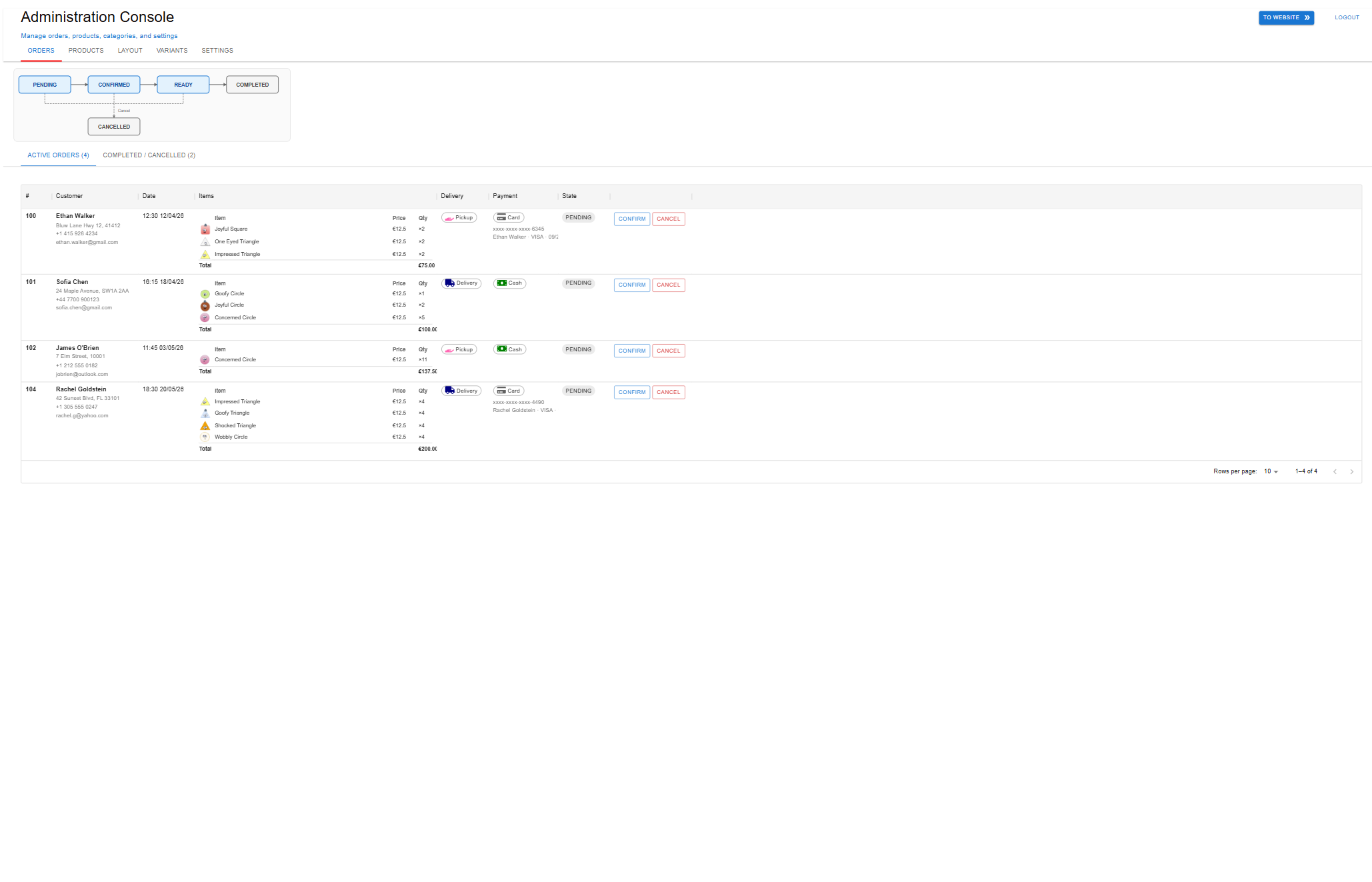
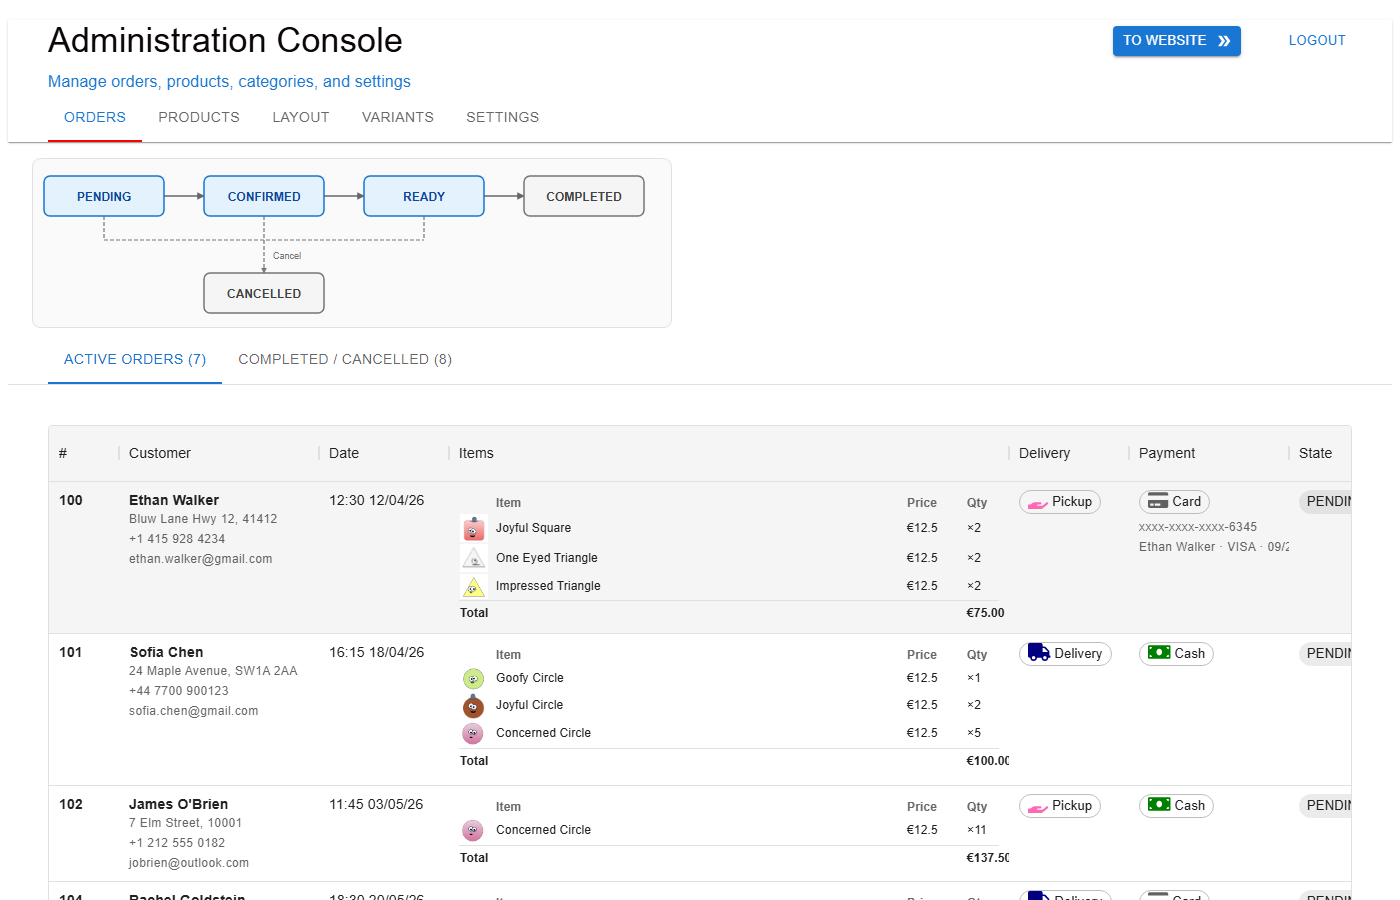
Recapture shapeshop screenshots at a consistent fixed viewport
The last refresh broke the page's 1.556:1 ratio again - shots ranged
anywhere from 123x94 up to 1280x531, several far more extreme than the
2.1:1 that triggered the original recrop fix (5b8460a). Recaptured all
15 (10 desktop + 5 mobile) via shape-shop's new driver script, which
fixes the viewport itself (1400x900 desktop, 378x786 mobile) rather
than relying on a manual crop/resize step.

Also tag every screenshot <img> with a stable data-shot-id
(shop-*/admin-*, -desktop/-mobile suffix) alongside its existing
descriptive alt text, so each image is identifiable by more than
filename alone without touching accessibility.

Claude-Session: https://claude.ai/code/session_01BsmVxucTDKDjDLbVxWjWfJ

diff --git a/src/pages/shapeshop/ManualPanel.jsx b/src/pages/shapeshop/ManualPanel.jsx
@@ -33,7 +33,7 @@ export default function ManualPanel() {
             Customers land on the home page and enter the shop to browse products by category, depending on
             the layout chosen in the admin panel.
           </p>
-          <img className="manual-screenshot" src={shopBrowsingScreenshot} alt="Shop showing products in a category" />
+          <img className="manual-screenshot" data-shot-id="shop-products-desktop" src={shopBrowsingScreenshot} alt="Shop showing products in a category" />
 
           <h3>Checkout</h3>
           <p>
@@ -41,14 +41,14 @@ export default function ManualPanel() {
             method, payment details, and an order summary to review before confirming. After confirming, they
             see an order confirmation screen.
           </p>
-          <img className="manual-screenshot" src={shopCheckoutScreenshot} alt="Checkout delivery or pickup step" />
+          <img className="manual-screenshot" data-shot-id="shop-checkout-desktop" src={shopCheckoutScreenshot} alt="Checkout delivery or pickup step" />
 
           <h3>Order status</h3>
           <p>
             After an order is placed, its progress (pending → confirmed → ready → completed, or cancelled) is
             tracked in the admin Orders tab.
           </p>
-          <img className="manual-screenshot" src={shopOrderStatusScreenshot} alt="Order confirmation screen" />
+          <img className="manual-screenshot" data-shot-id="shop-order-status-desktop" src={shopOrderStatusScreenshot} alt="Order confirmation screen" />
         </section>
 
         <section id="admin-panel">
@@ -64,14 +64,14 @@ export default function ManualPanel() {
             <em> Completed / Cancelled</em>. Clicking an order opens its detail screen, showing what was
             ordered and letting the owner move it through its states.
           </p>
-          <img className="manual-screenshot" src={adminOrdersScreenshot} alt="Orders tab showing active orders" />
+          <img className="manual-screenshot" data-shot-id="admin-orders-desktop" src={adminOrdersScreenshot} alt="Orders tab showing active orders" />
 
           <h3>Products</h3>
           <p>
             Add, edit, and remove the products customers see in the shop, including product images and
             pricing.
           </p>
-          <img className="manual-screenshot" src={adminProductsScreenshot} alt="Products tab showing the product grid" />
+          <img className="manual-screenshot" data-shot-id="admin-products-desktop" src={adminProductsScreenshot} alt="Products tab showing the product grid" />
 
           <h3>Categories</h3>
           <p>
@@ -80,26 +80,26 @@ export default function ManualPanel() {
             one, drag category tabs to reorder them, and switch to tree view for a sidebar layout of
             categories and their products.
           </p>
-          <img className="manual-screenshot" src={adminCategoriesScreenshot} alt="Create Category dialog" />
+          <img className="manual-screenshot" data-shot-id="admin-categories-desktop" src={adminCategoriesScreenshot} alt="Create Category dialog" />
 
           <h3>Layout</h3>
           <p>
             Controls how the shop's home page and product listings are arranged (e.g. single page, category
             menu, or a custom layout), and lets the owner set the header and welcome images.
           </p>
-          <img className="manual-screenshot" src={adminLayoutScreenshot} alt="Shop Layout options" />
+          <img className="manual-screenshot" data-shot-id="admin-layout-desktop" src={adminLayoutScreenshot} alt="Shop Layout options" />
 
           <h3>Variants</h3>
           <p>
             Manage product variants — such as different sizes or colours of the same product.
           </p>
-          <img className="manual-screenshot" src={adminVariantsScreenshot} alt="Variant Types panel" />
+          <img className="manual-screenshot" data-shot-id="admin-variants-desktop" src={adminVariantsScreenshot} alt="Variant Types panel" />
 
           <h3>Settings</h3>
           <p>
             General store settings for the site.
           </p>
-          <img className="manual-screenshot" src={adminSettingsScreenshot} alt="Settings panel showing welcome and header image options" />
+          <img className="manual-screenshot" data-shot-id="admin-settings-desktop" src={adminSettingsScreenshot} alt="Settings panel showing welcome and header image options" />
         </section>
       </div>
   );

diff --git a/src/pages/shapeshop/Screenshots.jsx b/src/pages/shapeshop/Screenshots.jsx
@@ -13,61 +13,79 @@ import img3Mobile from "./img/shop-admin-products-mobile.png";
 import img4Mobile from "./img/shop-admin-edit-product-mobile.png";
 import img5Mobile from "./img/shop-admin-orders-mobile.png";
 
-const screenshots = [img1, img2, img3, img4, img5];
-const mobileScreenshots = [img1Mobile, img2Mobile, img3Mobile, img4Mobile, img5Mobile];
+// `id` is a stable identifier for each screenshot (shop-*/admin-* naming,
+// desktop/mobile suffix - see take-screenshots-for-frontangle.md), rendered
+// as data-shot-id. `alt` stays a proper accessibility description.
+const screenshots = [
+  { src: img1, id: "shop-products-desktop", alt: "Shop showing products in a category" },
+  { src: img2, id: "shop-checkout-desktop", alt: "Checkout delivery or pickup step" },
+  { src: img3, id: "admin-products-desktop", alt: "Products tab showing the product grid" },
+  { src: img4, id: "admin-edit-product-desktop", alt: "Edit product dialog" },
+  { src: img5, id: "admin-orders-desktop", alt: "Orders tab showing active orders" },
+];
+const mobileScreenshots = [
+  { src: img1Mobile, id: "shop-products-mobile", alt: "Shop showing products in a category (mobile)" },
+  { src: img2Mobile, id: "shop-checkout-mobile", alt: "Checkout delivery or pickup step (mobile)" },
+  { src: img3Mobile, id: "admin-products-mobile", alt: "Products tab showing the product grid (mobile)" },
+  { src: img4Mobile, id: "admin-edit-product-mobile", alt: "Edit product dialog (mobile)" },
+  { src: img5Mobile, id: "admin-orders-mobile", alt: "Orders tab showing active orders (mobile)" },
+];
 
 export default function Screenshots() {
-  const [lightboxSrc, setLightboxSrc] = useState(null);
+  const [lightboxShot, setLightboxShot] = useState(null);
 
   useEffect(() => {
-    if (!lightboxSrc) return;
+    if (!lightboxShot) return;
     const onKeyDown = (e) => {
-      if (e.key === "Escape") setLightboxSrc(null);
+      if (e.key === "Escape") setLightboxShot(null);
     };
     document.addEventListener("keydown", onKeyDown);
     return () => document.removeEventListener("keydown", onKeyDown);
-  }, [lightboxSrc]);
+  }, [lightboxShot]);
 
   return (
     <>
       <div>Desktop</div>
       <div className="screenshot-grid">
-        {screenshots.map((src, index) => (
+        {screenshots.map((shot) => (
           <img
-            key={index}
-            src={src}
+            key={shot.id}
+            data-shot-id={shot.id}
+            src={shot.src}
             className="screenshot-image"
-            alt={`Shape Shop screenshot ${index + 1}`}
-            onClick={() => setLightboxSrc(src)}
+            alt={shot.alt}
+            onClick={() => setLightboxShot(shot)}
           />
         ))}
       </div>
       <div>Mobile</div>
       <div className="screenshot-grid screenshot-grid-mobile">
-        {mobileScreenshots.map((src, index) => (
+        {mobileScreenshots.map((shot) => (
           <img
-            key={index}
-            src={src}
+            key={shot.id}
+            data-shot-id={shot.id}
+            src={shot.src}
             className="screenshot-image screenshot-image-mobile"
-            alt={`Shape Shop mobile screenshot ${index + 1}`}
-            onClick={() => setLightboxSrc(src)}
+            alt={shot.alt}
+            onClick={() => setLightboxShot(shot)}
           />
         ))}
       </div>
 
-      {lightboxSrc && (
-        <div className="screenshot-lightbox" onClick={() => setLightboxSrc(null)}>
+      {lightboxShot && (
+        <div className="screenshot-lightbox" onClick={() => setLightboxShot(null)}>
           <button
             className="screenshot-lightbox-close"
-            onClick={() => setLightboxSrc(null)}
+            onClick={() => setLightboxShot(null)}
             aria-label="Close"
           >
             &times;
           </button>
           <img
-            src={lightboxSrc}
+            data-shot-id={lightboxShot.id}
+            src={lightboxShot.src}
             className="screenshot-lightbox-image"
-            alt="Enlarged screenshot"
+            alt={lightboxShot.alt}
             onClick={(e) => e.stopPropagation()}
           />
         </div>
